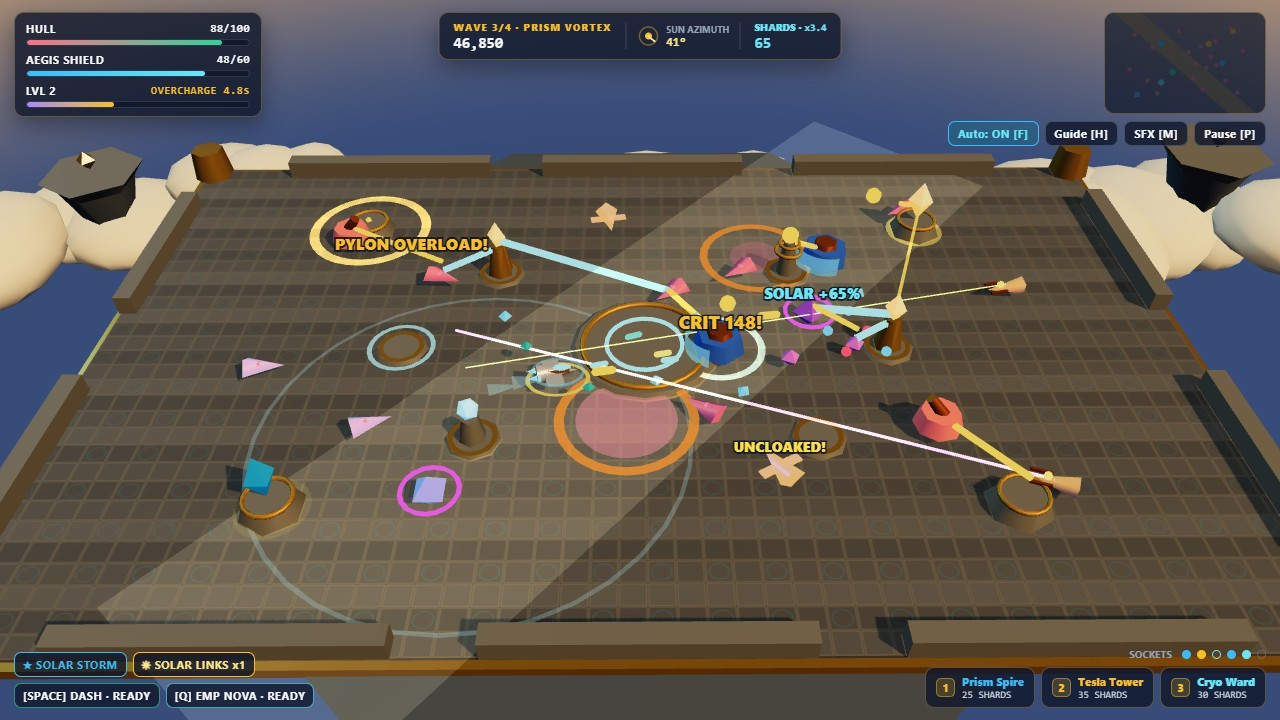
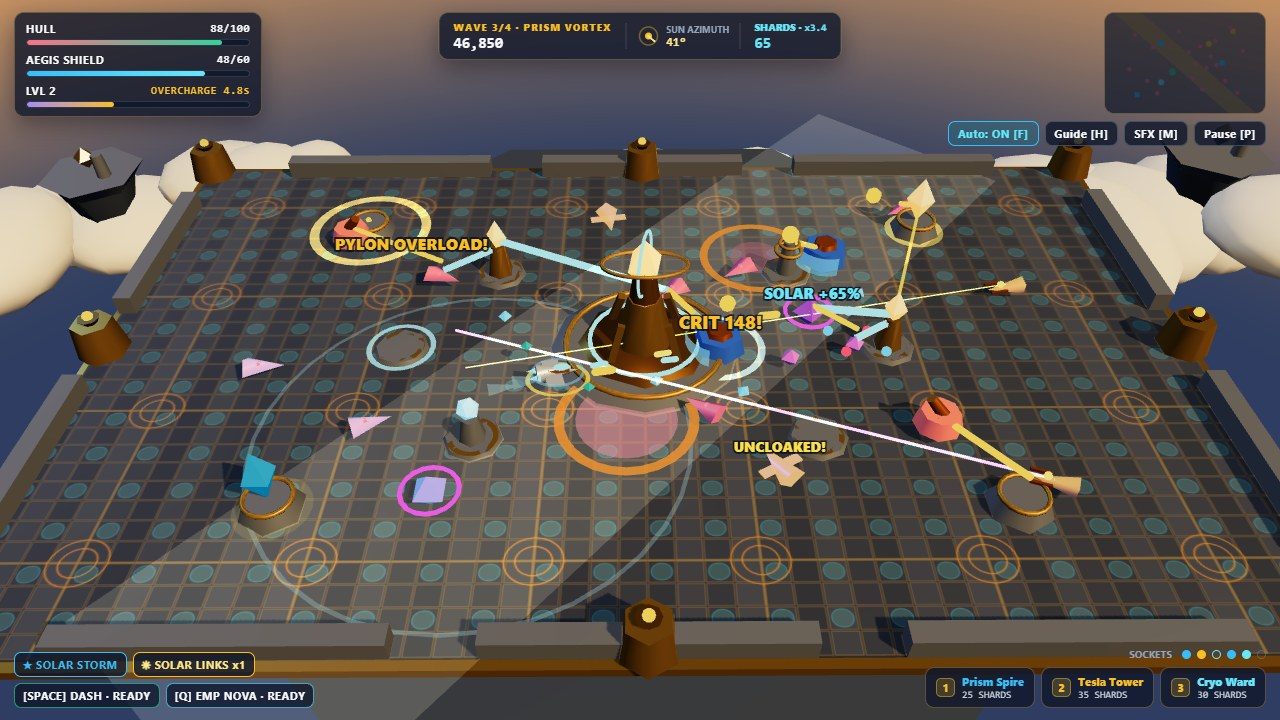
feat(v4): Central Solar Spire monument, astrolabe rings, beacon braziers and celestial deck

diff --git a/game/src/render/citadel.js b/game/src/render/citadel.js
@@ -1,7 +1,8 @@
 /**
  * Sculpted 3D Floating Sky Citadel builder and per-frame updater:
- * hex-stone deck, parapets, brushed-bronze trims, under-hull thruster ribs,
- * solar prism pylons, 6 build sockets + 3 turret models, clouds, and sunbeams.
+ * celestial hex-deck, parapet braziers, central Solar Spire & Aether Obelisk,
+ * armillary astrolabe rings, under-hull thruster ribs, solar prism pylons,
+ * 6 build sockets + 3 turret models, animated clouds, and sunbeams.
  */
 
 import * as THREE from 'three';
@@ -11,14 +12,33 @@ import { findTargetSocket } from '../sim/turrets.js';
 function createDeckTexture() {
   const c = document.createElement('canvas'); c.width = c.height = 512;
   const ctx = c.getContext('2d');
-  ctx.fillStyle = '#475569'; ctx.fillRect(0, 0, 512, 512);
+  ctx.fillStyle = '#2d3748'; ctx.fillRect(0, 0, 512, 512);
+
+  // Hex-flagstone pavement
   for (let y = 0; y < 512; y += 64) for (let x = 0; x < 512; x += 64) {
-    const s = ((x * 3 + y * 5) % 24) - 12;
-    ctx.fillStyle = `rgb(${98 + s},${98 + s},${102 + s})`; ctx.fillRect(x + 2, y + 2, 60, 60);
-    ctx.strokeStyle = 'rgba(245,196,108,0.34)'; ctx.lineWidth = 1.5; ctx.strokeRect(x + 2, y + 2, 60, 60);
+    const s = ((x * 3 + y * 5) % 20) - 10;
+    ctx.fillStyle = `rgb(${72 + s},${78 + s},${92 + s})`; ctx.fillRect(x + 2, y + 2, 60, 60);
+    ctx.strokeStyle = 'rgba(245,196,108,0.42)'; ctx.lineWidth = 1.5; ctx.strokeRect(x + 2, y + 2, 60, 60);
   }
-  ctx.strokeStyle = 'rgba(56,189,248,0.22)'; ctx.lineWidth = 2;
-  for (let y = 32; y < 512; y += 128) for (let x = 32; x < 512; x += 128) { ctx.beginPath(); ctx.arc(x, y, 22, 0, Math.PI * 2); ctx.stroke(); }
+
+  // Golden runic conduits & cyan energy circuits
+  ctx.strokeStyle = 'rgba(251,191,36,0.55)'; ctx.lineWidth = 2.5;
+  ctx.beginPath();
+  ctx.moveTo(0, 256); ctx.lineTo(512, 256);
+  ctx.moveTo(256, 0); ctx.lineTo(256, 512);
+  ctx.stroke();
+
+  ctx.strokeStyle = 'rgba(56,189,248,0.48)'; ctx.lineWidth = 2;
+  for (let y = 32; y < 512; y += 128) for (let x = 32; x < 512; x += 128) {
+    ctx.beginPath(); ctx.arc(x, y, 24, 0, Math.PI * 2); ctx.stroke();
+    ctx.fillStyle = 'rgba(103,232,249,0.18)'; ctx.fill();
+  }
+
+  // Central celestial star glyph
+  ctx.strokeStyle = 'rgba(245,158,11,0.65)'; ctx.lineWidth = 3;
+  ctx.beginPath(); ctx.arc(256, 256, 68, 0, Math.PI * 2); ctx.stroke();
+  ctx.beginPath(); ctx.arc(256, 256, 42, 0, Math.PI * 2); ctx.stroke();
+
   const tex = new THREE.CanvasTexture(c);
   tex.wrapS = tex.wrapT = THREE.RepeatWrapping; tex.repeat.set(6, 4); tex.colorSpace = THREE.SRGBColorSpace;
   return tex;
@@ -27,40 +47,109 @@ function createDeckTexture() {
 /** Builds the static and dynamic 3D Sky Citadel architecture. */
 export function createCitadelBuilder(scene) {
   const root = new THREE.Group(); scene.add(root);
-  const stoneMat = new THREE.MeshStandardMaterial({ map: createDeckTexture(), roughness: 0.72, metalness: 0.14 });
-  const brassMat = new THREE.MeshStandardMaterial({ color: 0xe0aa3e, roughness: 0.32, metalness: 0.76 });
-  const parapetMat = new THREE.MeshStandardMaterial({ color: 0x787672, roughness: 0.65, metalness: 0.18 });
-  const hullMat = new THREE.MeshStandardMaterial({ color: 0x57606f, roughness: 0.75, metalness: 0.25 });
+  const stoneMat = new THREE.MeshStandardMaterial({ map: createDeckTexture(), roughness: 0.68, metalness: 0.16 });
+  const brassMat = new THREE.MeshStandardMaterial({ color: 0xe0aa3e, roughness: 0.28, metalness: 0.82 });
+  const darkBrass = new THREE.MeshStandardMaterial({ color: 0x9a6b1f, roughness: 0.35, metalness: 0.78 });
+  const parapetMat = new THREE.MeshStandardMaterial({ color: 0x6e727a, roughness: 0.62, metalness: 0.22 });
+  const hullMat = new THREE.MeshStandardMaterial({ color: 0x475161, roughness: 0.72, metalness: 0.28 });
   const cyanMat = new THREE.MeshBasicMaterial({ color: 0x67e8f9 });
+  const amberGlow = new THREE.MeshBasicMaterial({ color: 0xfbbf24 });
 
   const addM = (geo, mat, x, y, z, sh = true, rx = 0, ry = 0) => {
     const m = new THREE.Mesh(geo, mat); m.position.set(x, y, z); m.rotation.set(rx, ry, 0);
     m.castShadow = sh; m.receiveShadow = true; root.add(m); return m;
   };
 
+  // Main Citadel Island Hull
   addM(new THREE.BoxGeometry(ARENA.halfX * 2 + 1.4, 1.3, ARENA.halfZ * 2 + 1.4), stoneMat, 0, -0.65, 0, false);
-  addM(new THREE.BoxGeometry(ARENA.halfX * 2 + 2.1, 0.42, ARENA.halfZ * 2 + 2.1), brassMat, 0, -0.35, 0, false);
-  addM(new THREE.ConeGeometry(21, 9.2, 8), hullMat, 0, -5.8, 0, false, Math.PI, Math.PI / 8);
-  addM(new THREE.TorusGeometry(4.4, 0.28, 10, 24), cyanMat, 0, -5.2, 0, false, Math.PI / 2);
+  addM(new THREE.BoxGeometry(ARENA.halfX * 2 + 2.2, 0.44, ARENA.halfZ * 2 + 2.2), brassMat, 0, -0.34, 0, false);
+  addM(new THREE.ConeGeometry(21.5, 9.6, 8), hullMat, 0, -6.0, 0, false, Math.PI, Math.PI / 8);
+  addM(new THREE.TorusGeometry(4.6, 0.32, 10, 24), cyanMat, 0, -5.4, 0, false, Math.PI / 2);
+  addM(new THREE.TorusGeometry(8.8, 0.22, 8, 32), brassMat, 0, -4.2, 0, false, Math.PI / 2);
 
+  // Raised stone parapet walls
   const wLong = new THREE.BoxGeometry(11.5, 0.95, 0.85); const wShort = new THREE.BoxGeometry(0.85, 0.95, 9.2);
   for (const x of [-14.5, 0, 14.5]) { addM(wLong, parapetMat, x, 0.48, -ARENA.halfZ - 0.35); addM(wLong, parapetMat, x, 0.48, ARENA.halfZ + 0.35); }
   for (const z of [-7.2, 7.2]) { addM(wShort, parapetMat, -ARENA.halfX - 0.35, 0.48, z); addM(wShort, parapetMat, ARENA.halfX + 0.35, 0.48, z); }
-  const pilGeo = new THREE.CylinderGeometry(0.85, 1.05, 1.65, 6);
-  for (const [cx, cz] of [[-1, -1], [1, -1], [-1, 1], [1, 1]]) addM(pilGeo, brassMat, cx * (ARENA.halfX + 0.3), 0.82, cz * (ARENA.halfZ + 0.3));
 
-  addM(new THREE.CylinderGeometry(3.2, 3.5, 0.24, 16), parapetMat, 0, 0.12, 0, false);
-  const coreOuter = addM(new THREE.TorusGeometry(2.85, 0.14, 10, 32), brassMat, 0, 0.26, 0, false, Math.PI / 2);
-  const coreInner = addM(new THREE.TorusGeometry(1.75, 0.11, 8, 24), cyanMat, 0, 0.28, 0, false, Math.PI / 2);
+  // Corner Citadel Bastion Towers & Beacon Braziers
+  const pilGeo = new THREE.CylinderGeometry(0.9, 1.15, 1.75, 6);
+  const brazierBowl = new THREE.CylinderGeometry(0.48, 0.25, 0.35, 8);
+  const flameOrb = new THREE.SphereGeometry(0.24, 10, 8);
 
+  const brazierPositions = [
+    [-ARENA.halfX - 0.3, -ARENA.halfZ - 0.3], [ARENA.halfX + 0.3, -ARENA.halfZ - 0.3],
+    [-ARENA.halfX - 0.3, ARENA.halfZ + 0.3], [ARENA.halfX + 0.3, ARENA.halfZ + 0.3],
+    [0, -ARENA.halfZ - 0.35], [0, ARENA.halfZ + 0.35],
+    [-ARENA.halfX - 0.35, 0], [ARENA.halfX + 0.35, 0],
+  ];
+
+  for (const [bx, bz] of brazierPositions) {
+    addM(pilGeo, brassMat, bx, 0.82, bz);
+    addM(brazierBowl, darkBrass, bx, 1.78, bz);
+    addM(flameOrb, amberGlow, bx, 2.05, bz, false);
+  }
+
+  // ==========================================
+  // CENTRAL SOLAR SPIRE & AETHER OBELISK
+  // ==========================================
+  const centralGroup = new THREE.Group(); root.add(centralGroup);
+
+  // Stepped circular stone & brass plinth
+  const plinth1 = new THREE.Mesh(new THREE.CylinderGeometry(3.8, 4.4, 0.38, 12), parapetMat); plinth1.position.y = 0.19; plinth1.receiveShadow = true;
+  const plinth2 = new THREE.Mesh(new THREE.CylinderGeometry(2.7, 3.1, 0.28, 8), darkBrass); plinth2.position.y = 0.48; plinth2.receiveShadow = true;
+  const plinthTrim = new THREE.Mesh(new THREE.TorusGeometry(3.6, 0.14, 8, 32), brassMat); plinthTrim.rotation.x = Math.PI / 2; plinthTrim.position.y = 0.39;
+  const plinthCyan = new THREE.Mesh(new THREE.TorusGeometry(2.5, 0.11, 8, 28), cyanMat); plinthCyan.rotation.x = Math.PI / 2; plinthCyan.position.y = 0.64;
+  centralGroup.add(plinth1, plinth2, plinthTrim, plinthCyan);
+
+  // 4 Arching Flying Buttresses
+  const strutGeo = new THREE.BoxGeometry(0.32, 2.2, 0.32);
+  for (let i = 0; i < 4; i += 1) {
+    const ang = (i * Math.PI) / 2 + Math.PI / 4;
+    const strut = new THREE.Mesh(strutGeo, brassMat);
+    strut.position.set(Math.cos(ang) * 1.85, 1.25, Math.sin(ang) * 1.85);
+    strut.rotation.set(-Math.sin(ang) * 0.38, 0, Math.cos(ang) * 0.38);
+    strut.castShadow = true;
+    centralGroup.add(strut);
+  }
+
+  // Central Obelisk Spire Tower
+  const spireBase = new THREE.Mesh(new THREE.CylinderGeometry(0.75, 1.35, 2.6, 8), brassMat); spireBase.position.y = 1.78; spireBase.castShadow = true;
+  const spireMid = new THREE.Mesh(new THREE.CylinderGeometry(0.48, 0.72, 1.6, 8), darkBrass); spireMid.position.y = 3.65; spireMid.castShadow = true;
+  const spireCrown = new THREE.Mesh(new THREE.OctahedronGeometry(0.55, 0), brassMat); spireCrown.position.y = 4.65;
+  centralGroup.add(spireBase, spireMid, spireCrown);
+
+  // Floating Rotating Solar Prism Core
+  const prismMat = new THREE.MeshStandardMaterial({
+    color: 0xfffbeb, emissive: 0xf59e0b, emissiveIntensity: 1.6, roughness: 0.15, metalness: 0.45,
+  });
+  const solarPrism = new THREE.Mesh(new THREE.OctahedronGeometry(1.05, 0), prismMat);
+  solarPrism.position.y = 4.85; solarPrism.scale.set(0.85, 1.35, 0.85); solarPrism.castShadow = true;
+  centralGroup.add(solarPrism);
+
+  // 2 Celestial Armillary Astrolabe Rings
+  const astrolabeA = new THREE.Mesh(new THREE.TorusGeometry(1.85, 0.08, 8, 32), brassMat); astrolabeA.position.y = 4.85;
+  const astrolabeB = new THREE.Mesh(new THREE.TorusGeometry(1.42, 0.07, 8, 28), cyanMat); astrolabeB.position.y = 4.85;
+  centralGroup.add(astrolabeA, astrolabeB);
+
+  // Warm Central Point Light illuminating citadel center & flying craft
+  const coreLight = new THREE.PointLight(0xffbe3b, 2.6, 32, 1.3);
+  coreLight.position.set(0, 4.2, 0);
+  root.add(coreLight);
+
+  // Rotating outer sunbeam shafts
   const sunShaftGroup = new THREE.Group();
-  const shaft = new THREE.Mesh(new THREE.PlaneGeometry(46, 11.4), new THREE.MeshBasicMaterial({ color: 0xfde68a, transparent: true, opacity: 0.13, depthWrite: false, side: THREE.DoubleSide, blending: THREE.AdditiveBlending }));
+  const shaft = new THREE.Mesh(
+    new THREE.PlaneGeometry(48, 12.0),
+    new THREE.MeshBasicMaterial({ color: 0xfde68a, transparent: true, opacity: 0.15, depthWrite: false, side: THREE.DoubleSide, blending: THREE.AdditiveBlending })
+  );
   shaft.rotation.x = -Math.PI / 2; shaft.position.y = 0.06; sunShaftGroup.add(shaft); root.add(sunShaftGroup);
 
-  const cloudMat = new THREE.MeshStandardMaterial({ color: 0xfff1d6, emissive: 0x4a3520, emissiveIntensity: 0.22, roughness: 0.94 });
+  // Atmospheric drifting volumetric cloud clusters
+  const cloudMat = new THREE.MeshStandardMaterial({ color: 0xfff2dc, emissive: 0x4a321a, emissiveIntensity: 0.26, roughness: 0.94 });
   const puffGeo = new THREE.DodecahedronGeometry(1, 1);
   const clouds = Array.from({ length: 18 }, (_, i) => {
-    const cg = new THREE.Group(); const bs = 4.2 + (i % 4) * 1.4;
+    const cg = new THREE.Group(); const bs = 4.5 + (i % 4) * 1.5;
     for (let k = 0; k < 3; k += 1) {
       const p = new THREE.Mesh(puffGeo, cloudMat); p.scale.set(bs * (1 - k * 0.16), bs * 0.44, bs * 0.88);
       p.position.set((k - 1) * bs * 0.72, (k % 2) * 0.5, (k === 1 ? 0.4 : -0.3) * bs * 0.38); cg.add(p);
@@ -71,55 +160,63 @@ export function createCitadelBuilder(scene) {
     root.add(cg); return { mesh: cg, baseX, speed: 0.45 + (i % 4) * 0.15 };
   });
 
-  const spGeo = new THREE.ConeGeometry(2.4, 7.2, 6); const capGeo = new THREE.CylinderGeometry(3.2, 2.2, 1.1, 6); const bcGeo = new THREE.OctahedronGeometry(0.65, 0);
+  // Distant Floating Sky Islands with celestial ruins
+  const spGeo = new THREE.ConeGeometry(2.4, 7.2, 6); const capGeo = new THREE.CylinderGeometry(3.2, 2.2, 1.1, 6); const bcGeo = new THREE.OctahedronGeometry(0.75, 0);
   for (const [ix, iy, iz, sc] of [[-38, -5.8, -24, 1.05], [40, -5.0, -25, 1.15], [-42, -7.0, 14, 0.95], [43, -6.5, 15, 1.05]]) {
     const ig = new THREE.Group(); const sp = new THREE.Mesh(spGeo, hullMat); sp.rotation.x = Math.PI; sp.position.y = -3.9;
-    const bc = new THREE.Mesh(bcGeo, brassMat); bc.position.y = 1.4; ig.add(new THREE.Mesh(capGeo, parapetMat), sp, bc);
+    const bc = new THREE.Mesh(bcGeo, brassMat); bc.position.y = 1.6;
+    const ruinsPillar = new THREE.Mesh(new THREE.CylinderGeometry(0.35, 0.45, 1.8, 6), parapetMat); ruinsPillar.position.set(1.1, 1.2, 0.5);
+    ig.add(new THREE.Mesh(capGeo, parapetMat), sp, bc, ruinsPillar);
     ig.position.set(ix, iy, iz); ig.scale.setScalar(sc); root.add(ig);
   }
 
+  // 4 Cardinal Solar Prism Pylons
   const pyB = new THREE.CylinderGeometry(1, 1.35, 0.75, 6); const pyC = new THREE.TorusGeometry(0.95, 0.1, 8, 18);
-  const pyCry = new THREE.OctahedronGeometry(0.75, 0); const pyH = new THREE.RingGeometry(1.15, 1.48, 24);
+  const pyCry = new THREE.OctahedronGeometry(0.85, 0); const pyH = new THREE.RingGeometry(1.15, 1.55, 24);
   const pylonViews = PYLON_ANCHORS.map((a) => {
     const g = new THREE.Group(); g.position.set(a.x, 0, a.z);
     const b = new THREE.Mesh(pyB, parapetMat); b.position.y = 0.38; b.castShadow = b.receiveShadow = true;
     const c = new THREE.Mesh(pyC, brassMat); c.rotation.x = Math.PI / 2; c.position.y = 0.76;
-    const crystalMat = new THREE.MeshStandardMaterial({ color: 0x38bdf8, emissive: 0x0284c7, emissiveIntensity: 0.9, roughness: 0.18, metalness: 0.4 });
-    const crystal = new THREE.Mesh(pyCry, crystalMat); crystal.position.y = 1.85; crystal.scale.set(0.85, 1.45, 0.85); crystal.castShadow = true;
-    const haloMat = new THREE.MeshBasicMaterial({ color: 0xfbbf24, transparent: true, opacity: 0.45, side: THREE.DoubleSide, depthWrite: false });
+    const crystalMat = new THREE.MeshStandardMaterial({ color: 0x38bdf8, emissive: 0x0284c7, emissiveIntensity: 0.95, roughness: 0.18, metalness: 0.4 });
+    const crystal = new THREE.Mesh(pyCry, crystalMat); crystal.position.y = 1.9; crystal.scale.set(0.85, 1.5, 0.85); crystal.castShadow = true;
+    const haloMat = new THREE.MeshBasicMaterial({ color: 0xfbbf24, transparent: true, opacity: 0.5, side: THREE.DoubleSide, depthWrite: false });
     const halo = new THREE.Mesh(pyH, haloMat); halo.rotation.x = -Math.PI / 2; halo.position.y = 0.08;
     g.add(b, c, crystal, halo); root.add(g); return { crystal, crystalMat, halo, haloMat };
   });
 
-  const padGeo = new THREE.CylinderGeometry(1.1, 1.25, 0.16, 8); const padRing = new THREE.RingGeometry(0.82, 1.05, 24);
-  const selGeo = new THREE.RingGeometry(1.25, 1.46, 24); const auraGeo = new THREE.RingGeometry(TURRET_CFG.cryo.range - 0.18, TURRET_CFG.cryo.range, 36);
+  // 6 Tactical Build Sockets + 3 Turret Archetypes
+  const padGeo = new THREE.CylinderGeometry(1.15, 1.3, 0.18, 8); const padRing = new THREE.RingGeometry(0.85, 1.08, 24);
+  const selGeo = new THREE.RingGeometry(1.25, 1.48, 24); const auraGeo = new THREE.RingGeometry(TURRET_CFG.cryo.range - 0.18, TURRET_CFG.cryo.range, 36);
   const socketViews = BUILD_SOCKETS.map((s) => {
     const g = new THREE.Group(); g.position.set(s.x, 0, s.z);
-    const pad = new THREE.Mesh(padGeo, parapetMat); pad.position.y = 0.08; pad.receiveShadow = true;
-    const ring = new THREE.Mesh(padRing, brassMat); ring.rotation.x = -Math.PI / 2; ring.position.y = 0.17;
-    const selector = new THREE.Mesh(selGeo, new THREE.MeshBasicMaterial({ color: 0x67e8f9, transparent: true, opacity: 0.8, side: THREE.DoubleSide }));
-    selector.rotation.x = -Math.PI / 2; selector.position.y = 0.12; selector.visible = false;
+    const pad = new THREE.Mesh(padGeo, parapetMat); pad.position.y = 0.09; pad.receiveShadow = true;
+    const ring = new THREE.Mesh(padRing, brassMat); ring.rotation.x = -Math.PI / 2; ring.position.y = 0.18;
+    const selector = new THREE.Mesh(selGeo, new THREE.MeshBasicMaterial({ color: 0x67e8f9, transparent: true, opacity: 0.85, side: THREE.DoubleSide }));
+    selector.rotation.x = -Math.PI / 2; selector.position.y = 0.13; selector.visible = false;
     g.add(pad, ring, selector);
 
+    // Prism Spire
     const prismGroup = new THREE.Group(); prismGroup.visible = false;
     const pShaft = new THREE.Mesh(new THREE.CylinderGeometry(0.32, 0.58, 1.45, 6), brassMat); pShaft.position.y = 0.85; pShaft.castShadow = true;
-    const pHeadMat = new THREE.MeshStandardMaterial({ color: 0x67e8f9, emissive: 0x0ea5e9, emissiveIntensity: 0.9, roughness: 0.15, metalness: 0.45 });
-    const pHead = new THREE.Mesh(new THREE.OctahedronGeometry(0.54, 0), pHeadMat); pHead.position.y = 2.05; pHead.scale.set(0.8, 1.35, 0.8);
+    const pHeadMat = new THREE.MeshStandardMaterial({ color: 0x67e8f9, emissive: 0x0ea5e9, emissiveIntensity: 0.95, roughness: 0.15, metalness: 0.45 });
+    const pHead = new THREE.Mesh(new THREE.OctahedronGeometry(0.58, 0), pHeadMat); pHead.position.y = 2.05; pHead.scale.set(0.8, 1.4, 0.8);
     prismGroup.add(pShaft, pHead);
 
+    // Tesla Arc Tower
     const teslaGroup = new THREE.Group(); teslaGroup.visible = false;
     const tMast = new THREE.Mesh(new THREE.CylinderGeometry(0.24, 0.48, 1.6, 8), parapetMat); tMast.position.y = 0.9; tMast.castShadow = true;
     const tc1 = new THREE.Mesh(new THREE.TorusGeometry(0.55, 0.08, 8, 18), brassMat); tc1.rotation.x = Math.PI / 2; tc1.position.y = 1.25;
     const tc2 = new THREE.Mesh(new THREE.TorusGeometry(0.42, 0.07, 8, 18), brassMat); tc2.rotation.x = Math.PI / 2; tc2.position.y = 1.62;
-    const tOrb = new THREE.Mesh(new THREE.SphereGeometry(0.34, 10, 8), new THREE.MeshBasicMaterial({ color: 0xfbbf24 })); tOrb.position.y = 2.05;
+    const tOrb = new THREE.Mesh(new THREE.SphereGeometry(0.35, 10, 8), new THREE.MeshBasicMaterial({ color: 0xfbbf24 })); tOrb.position.y = 2.08;
     teslaGroup.add(tMast, tc1, tc2, tOrb);
 
+    // Cryo Ward
     const cryoGroup = new THREE.Group(); cryoGroup.visible = false;
     const cPil = new THREE.Mesh(new THREE.CylinderGeometry(0.38, 0.62, 1.2, 6), parapetMat); cPil.position.y = 0.7; cPil.castShadow = true;
-    const cCore = new THREE.Mesh(new THREE.IcosahedronGeometry(0.48, 0), new THREE.MeshStandardMaterial({ color: 0xa5f3fc, emissive: 0x38bdf8, emissiveIntensity: 0.85, roughness: 0.2 }));
-    cCore.position.y = 1.72;
-    const cAura = new THREE.Mesh(auraGeo, new THREE.MeshBasicMaterial({ color: 0x67e8f9, transparent: true, opacity: 0.28, side: THREE.DoubleSide, depthWrite: false }));
-    cAura.rotation.x = -Math.PI / 2; cAura.position.y = 0.09; cryoGroup.add(cPil, cCore, cAura);
+    const cCore = new THREE.Mesh(new THREE.IcosahedronGeometry(0.5, 0), new THREE.MeshStandardMaterial({ color: 0xa5f3fc, emissive: 0x38bdf8, emissiveIntensity: 0.9, roughness: 0.2 }));
+    cCore.position.y = 1.74;
+    const cAura = new THREE.Mesh(auraGeo, new THREE.MeshBasicMaterial({ color: 0x67e8f9, transparent: true, opacity: 0.3, side: THREE.DoubleSide, depthWrite: false }));
+    cAura.rotation.x = -Math.PI / 2; cAura.position.y = 0.1; cryoGroup.add(cPil, cCore, cAura);
 
     g.add(prismGroup, teslaGroup, cryoGroup); root.add(g);
     return { selector, prismGroup, pHead, pHeadMat, teslaGroup, tOrb, cryoGroup, cCore, cAura };
@@ -127,18 +224,28 @@ export function createCitadelBuilder(scene) {
 
   function update(state, showSel) {
     const t = state.elapsed;
-    coreOuter.rotation.z = state.sun.azimuth; coreInner.rotation.z = -t * 0.8;
+
+    // Animate Central Solar Spire & Astrolabe
+    solarPrism.rotation.y = t * 1.6;
+    solarPrism.rotation.x = Math.sin(t * 0.8) * 0.18;
+    solarPrism.position.y = 4.85 + Math.sin(t * 2.2) * 0.12;
+    astrolabeA.rotation.x = t * 0.9;
+    astrolabeA.rotation.z = state.sun.azimuth;
+    astrolabeB.rotation.y = -t * 1.3;
+    astrolabeB.rotation.z = t * 0.7;
+    coreLight.intensity = 2.4 + Math.sin(t * 3.5) * 0.35;
+
     sunShaftGroup.rotation.y = -state.sun.azimuth + Math.PI / 2;
     for (const cp of clouds) cp.mesh.position.x = ((cp.baseX + t * cp.speed + 65) % 130) - 65;
 
     for (let i = 0; i < state.pylons.length; i += 1) {
       const py = state.pylons[i]; const v = pylonViews[i];
       v.crystal.visible = v.halo.visible = py.active; if (!py.active) continue;
-      v.crystal.rotation.y = t * 1.4 + i; v.crystal.position.y = 1.82 + Math.sin(py.pulse) * 0.16;
+      v.crystal.rotation.y = t * 1.4 + i; v.crystal.position.y = 1.88 + Math.sin(py.pulse) * 0.16;
       v.crystalMat.color.setHex(py.flash > 0 ? 0xffffff : py.sunlit ? 0x67e8f9 : 0x38bdf8);
       v.crystalMat.emissive.setHex(py.flash > 0 ? 0xfbbf24 : py.sunlit ? 0xf59e0b : 0x0369a1);
-      v.crystalMat.emissiveIntensity = py.sunlit ? 1.15 : 0.55;
-      v.haloMat.opacity = py.sunlit ? 0.48 + Math.sin(py.pulse * 1.5) * 0.14 : 0.14;
+      v.crystalMat.emissiveIntensity = py.sunlit ? 1.2 : 0.6;
+      v.haloMat.opacity = py.sunlit ? 0.52 + Math.sin(py.pulse * 1.5) * 0.15 : 0.16;
     }
 
     const tgt = showSel ? findTargetSocket(state, null) : null;
@@ -149,9 +256,9 @@ export function createCitadelBuilder(scene) {
       sv.prismGroup.visible = tu.active && tu.kind === 'prism'; sv.teslaGroup.visible = tu.active && tu.kind === 'tesla'; sv.cryoGroup.visible = tu.active && tu.kind === 'cryo';
       if (!tu.active) continue;
       const sc = 1 + (tu.level - 1) * 0.14;
-      if (tu.kind === 'prism') { sv.prismGroup.scale.setScalar(sc); sv.pHead.rotation.y = t * 2.1 + i; sv.pHeadMat.emissive.setHex(tu.sunlit ? 0xf59e0b : 0x0284c7); sv.pHeadMat.emissiveIntensity = tu.sunlit ? 1.25 : 0.65; }
+      if (tu.kind === 'prism') { sv.prismGroup.scale.setScalar(sc); sv.pHead.rotation.y = t * 2.1 + i; sv.pHeadMat.emissive.setHex(tu.sunlit ? 0xf59e0b : 0x0284c7); sv.pHeadMat.emissiveIntensity = tu.sunlit ? 1.3 : 0.7; }
       else if (tu.kind === 'tesla') { sv.teslaGroup.scale.setScalar(sc); sv.tOrb.scale.setScalar(1 + Math.sin(t * 9 + i) * 0.12); }
-      else if (tu.kind === 'cryo') { sv.cCore.rotation.y = -t * 1.5; sv.cCore.position.y = 1.72 + Math.sin(t * 3 + i) * 0.1; sv.cAura.scale.setScalar(1 + (tu.level - 1) * 0.15); }
+      else if (tu.kind === 'cryo') { sv.cCore.rotation.y = -t * 1.5; sv.cCore.position.y = 1.74 + Math.sin(t * 3 + i) * 0.1; sv.cAura.scale.setScalar(1 + (tu.level - 1) * 0.15); }
     }
   }
   return { update };

diff --git a/game/src/render/scene.js b/game/src/render/scene.js
@@ -26,16 +26,16 @@ varying vec3 vWorldPos;
 void main() {
   vec3 dir = normalize(vWorldPos);
   float h = clamp(dir.y * 0.5 + 0.5, 0.0, 1.0);
-  vec3 nadir = vec3(0.22, 0.30, 0.48);
-  vec3 horizon = vec3(0.98, 0.73, 0.44);
-  vec3 mid = vec3(0.42, 0.59, 0.82);
-  vec3 zenith = vec3(0.14, 0.28, 0.52);
-  vec3 col = mix(nadir, horizon, smoothstep(0.28, 0.50, h));
-  col = mix(col, mid, smoothstep(0.50, 0.68, h));
+  vec3 nadir = vec3(0.18, 0.24, 0.38);
+  vec3 horizon = vec3(0.98, 0.68, 0.38);
+  vec3 mid = vec3(0.38, 0.52, 0.78);
+  vec3 zenith = vec3(0.11, 0.20, 0.44);
+  vec3 col = mix(nadir, horizon, smoothstep(0.24, 0.48, h));
+  col = mix(col, mid, smoothstep(0.48, 0.68, h));
   col = mix(col, zenith, smoothstep(0.68, 0.96, h));
   float sunAmt = max(dot(dir, normalize(uSunDir)), 0.0);
-  col += vec3(1.0, 0.84, 0.48) * pow(sunAmt, 14.0) * 0.55;
-  col += vec3(1.0, 0.96, 0.85) * smoothstep(0.996, 0.9992, sunAmt) * 1.4;
+  col += vec3(1.0, 0.78, 0.42) * pow(sunAmt, 10.0) * 0.65;
+  col += vec3(1.0, 0.94, 0.82) * smoothstep(0.994, 0.9995, sunAmt) * 1.6;
   gl_FragColor = vec4(col, 1.0);
 }`;
 
@@ -54,10 +54,10 @@ export function createSceneContext(canvas) {
   renderer.shadowMap.enabled = true;
   renderer.shadowMap.type = THREE.PCFSoftShadowMap;
   renderer.toneMapping = THREE.ACESFilmicToneMapping;
-  renderer.toneMappingExposure = 1.12;
+  renderer.toneMappingExposure = 1.18;
 
   const scene = new THREE.Scene();
-  scene.fog = new THREE.FogExp2(0x6e7b94, 0.0028);
+  scene.fog = new THREE.FogExp2(0x5c6a85, 0.0026);
 
   const camera = new THREE.PerspectiveCamera(43, 16 / 9, 0.5, 320);
   camera.position.set(0, 28.5, 31.0);
@@ -77,11 +77,11 @@ export function createSceneContext(canvas) {
   const skyDome = new THREE.Mesh(new THREE.SphereGeometry(180, 32, 20), skyMat);
   scene.add(skyDome);
 
-  // Golden-hour lights
-  const hemiLight = new THREE.HemisphereLight(0xfff1d0, 0x3b4e7a, 0.95);
+  // Golden-hour lights: warm main sunlight, cool sky bounce, amber ground bounce
+  const hemiLight = new THREE.HemisphereLight(0xfff5d8, 0x33446b, 1.05);
   scene.add(hemiLight);
 
-  const sunLight = new THREE.DirectionalLight(0xffcf87, 2.35);
+  const sunLight = new THREE.DirectionalLight(0xffd699, 2.5);
   sunLight.castShadow = true;
   sunLight.shadow.mapSize.set(2048, 2048);
   sunLight.shadow.camera.near = 10;
@@ -95,7 +95,7 @@ export function createSceneContext(canvas) {
   sunLight.position.set(28, 34, 18);
   scene.add(sunLight);
 
-  const rimLight = new THREE.DirectionalLight(0x7dd3fc, 0.68);
+  const rimLight = new THREE.DirectionalLight(0x60a5fa, 0.75);
   rimLight.position.set(-24, 18, -22);
   scene.add(rimLight);
 
